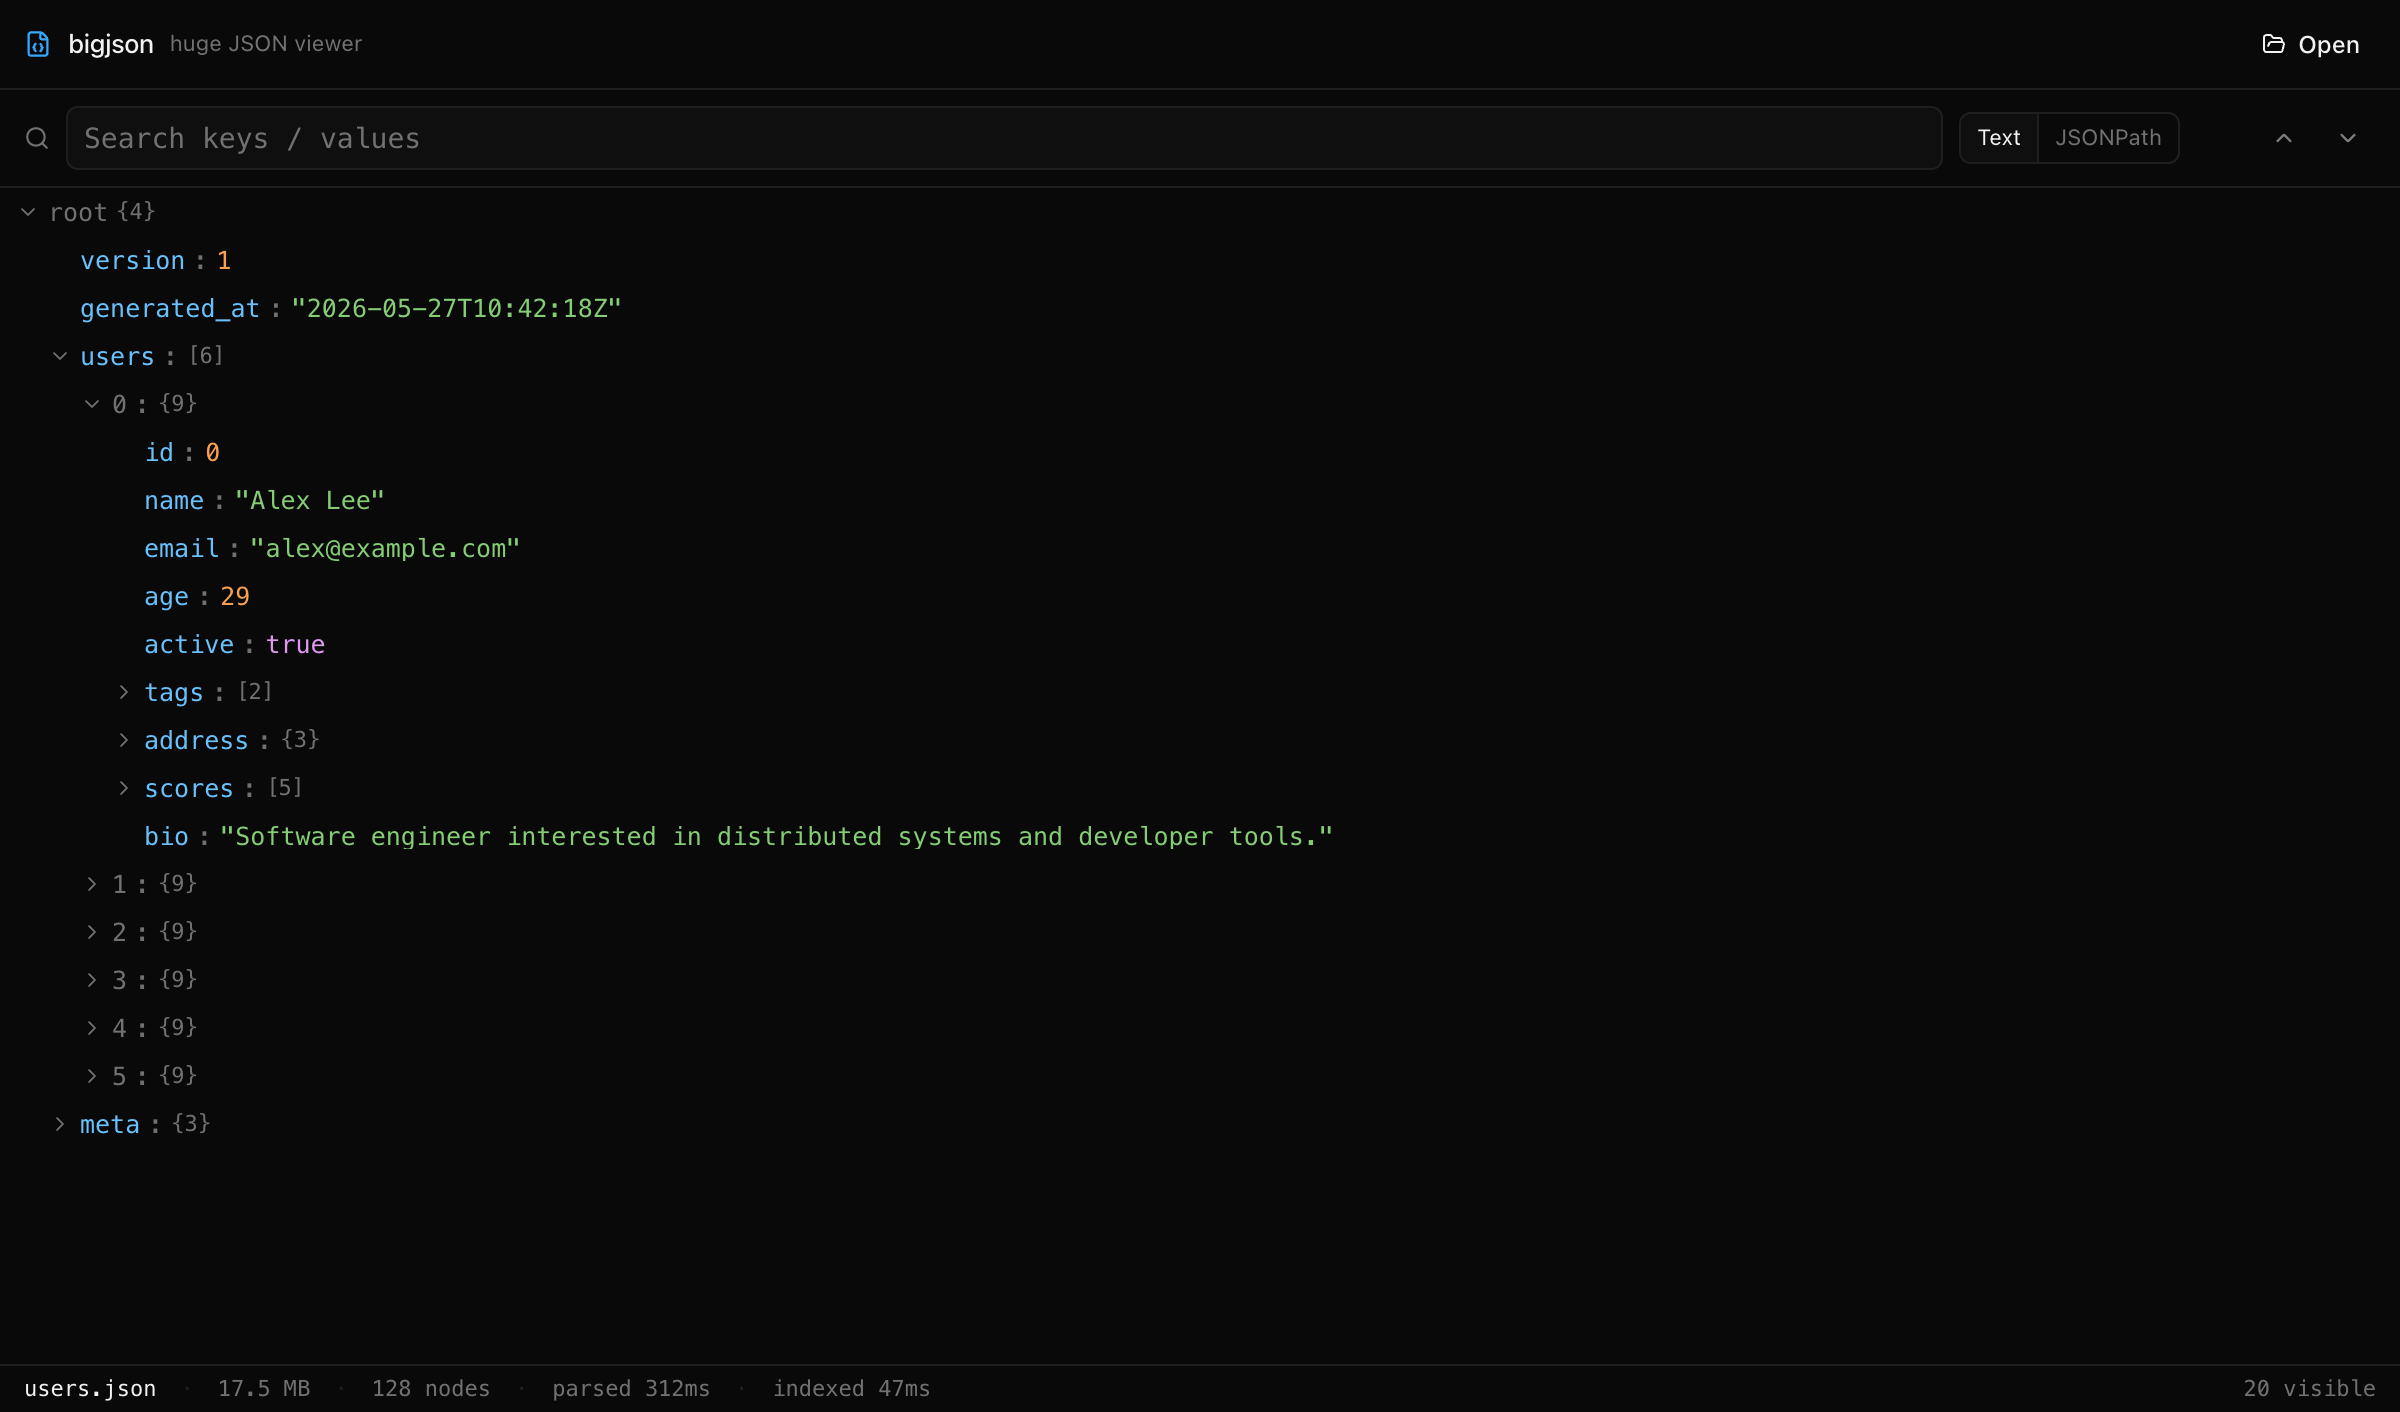
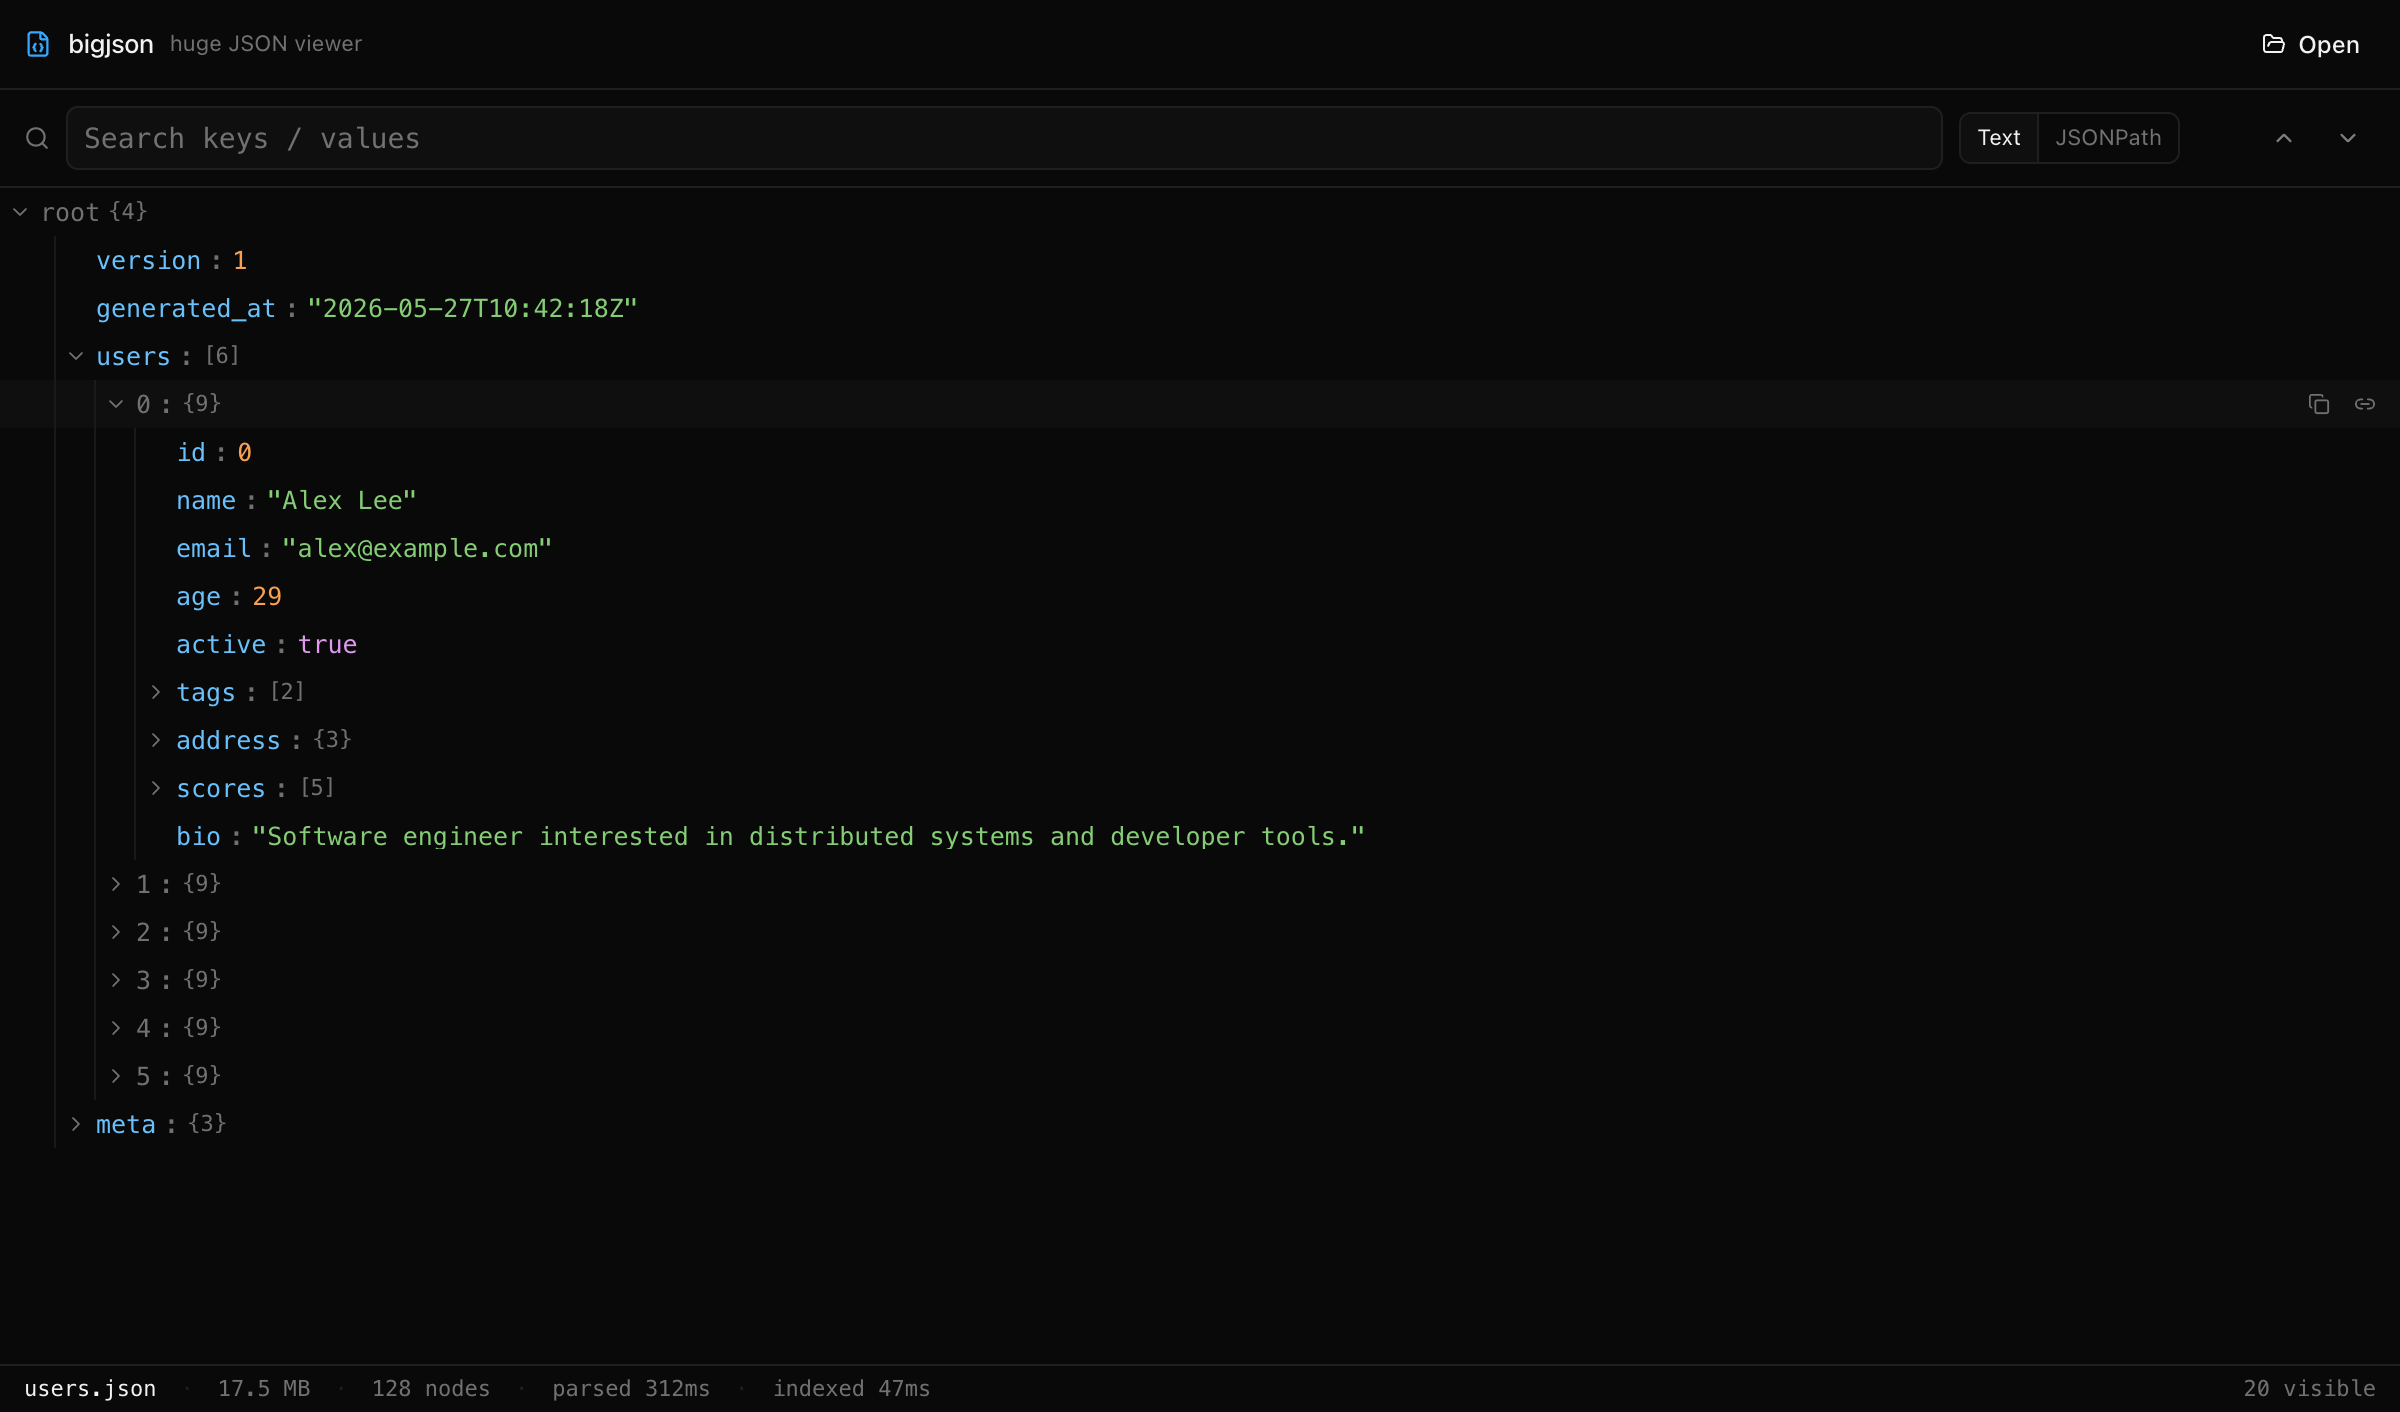
fixed known issues, tree selection, search result visibility, and added screenshots to docs

diff --git a/src/components/tree-row.tsx b/src/components/tree-row.tsx
@@ -3,6 +3,7 @@ import { NodeView } from "@/lib/tauri";
 import { cn } from "@/lib/utils";
 
 const ROW_HEIGHT = 24;
+const INDENT_PX = 20;
 
 type Props = {
   node: NodeView;
@@ -24,30 +25,40 @@ export function TreeRow({
   onCopyPath,
 }: Props) {
   const isContainer = node.kind === "object" || node.kind === "array";
-  const indent = depth * 16;
 
   return (
     <div
       className={cn(
-        "group flex items-center gap-1 px-2 font-mono text-[12.5px] leading-none select-none",
+        "group flex items-center font-mono text-[12.5px] leading-none select-none pr-2 relative",
         highlighted && "bg-[color-mix(in_oklch,var(--color-accent)_25%,transparent)]",
         !highlighted && "hover:bg-[var(--color-panel)]"
       )}
-      style={{ height: ROW_HEIGHT, paddingLeft: 8 + indent }}
+      style={{ height: ROW_HEIGHT }}
       onClick={isContainer ? onToggle : undefined}
     >
-      <span className="w-3 shrink-0 text-[var(--color-muted)]">
+      {/* indent guides — full-height vertical lines, one per depth level */}
+      {Array.from({ length: depth }, (_, i) => (
+        <span
+          key={i}
+          className="shrink-0 self-stretch border-r border-[var(--color-border)]/70"
+          style={{ width: INDENT_PX, marginLeft: i === 0 ? 8 : 0 }}
+          aria-hidden
+        />
+      ))}
+      <span className="ml-1 flex w-3 shrink-0 items-center justify-center text-[var(--color-muted)]">
         {isContainer ? (
           expanded ? <ChevronDown size={12} /> : <ChevronRight size={12} />
         ) : null}
       </span>
-      <KeyLabel node={node} />
-      <ValueLabel node={node} />
-      {isContainer && (
-        <span className="text-[var(--color-muted)] text-[11px]">
-          {node.kind === "array" ? `[${node.child_count}]` : `{${node.child_count}}`}
-        </span>
-      )}
+      <div className="flex items-center gap-1 min-w-0 ml-1">
+        <KeyLabel node={node} />
+        <ValueLabel node={node} />
+        {isContainer && (
+          <span className="text-[var(--color-muted)] text-[11px]">
+            {node.kind === "array" ? `[${node.child_count}]` : `{${node.child_count}}`}
+          </span>
+        )}
+      </div>
       <div className="ml-auto opacity-0 group-hover:opacity-100 flex items-center gap-1">
         <button
           className="p-1 text-[var(--color-muted)] hover:text-[var(--color-fg)]"

diff --git a/src/hooks/use-tree.ts b/src/hooks/use-tree.ts
@@ -85,17 +85,29 @@ export function useTree(rootId: number | null) {
     [rebuild]
   );
 
-  // Expand all ancestors of `id` and ensure it's visible (used when search jumps).
+  // Expand all ancestors of `id` and load enough children of each ancestor that
+  // the path down to `id` is materialised in our cache. Without this, a search
+  // hit at array index 7000 inside `users[]` would never appear in `rows`
+  // because we only paginate the first PAGE_SIZE children by default.
   const reveal = useCallback(
     async (id: number) => {
       const ancestors = await ipc.getAncestors(id);
-      for (const a of ancestors) {
-        if (!expandedRef.current.get(a)) {
-          expandedRef.current.set(a, true);
-          if (!cacheRef.current.has(a)) {
-            const kids = await ipc.getChildren(a, 0, PAGE_SIZE);
-            cacheRef.current.set(a, kids);
-          }
+      const chain = [...ancestors, id]; // walk root → target
+      for (let i = 0; i < chain.length - 1; i++) {
+        const parent = chain[i];
+        const childOnPath = chain[i + 1];
+        expandedRef.current.set(parent, true);
+        if (!cacheRef.current.has(parent)) {
+          const kids = await ipc.getChildren(parent, 0, PAGE_SIZE);
+          cacheRef.current.set(parent, kids);
+        }
+        // ensure `childOnPath` is inside the loaded slice; load more pages until it is
+        const targetPos = await ipc.getPosition(childOnPath);
+        while ((cacheRef.current.get(parent)?.length ?? 0) <= targetPos) {
+          const have = cacheRef.current.get(parent)?.length ?? 0;
+          const more = await ipc.getChildren(parent, have, PAGE_SIZE);
+          if (more.length === 0) break;
+          cacheRef.current.set(parent, [...(cacheRef.current.get(parent) ?? []), ...more]);
         }
       }
       await rebuild();

diff --git a/src/lib/tauri.ts b/src/lib/tauri.ts
@@ -34,6 +34,7 @@ export const ipc = {
   getChildren: (id: number, offset: number, limit: number) =>
     invoke<NodeView[]>("get_children", { id, offset, limit }),
   getAncestors: (id: number) => invoke<number[]>("get_ancestors", { id }),
+  getPosition: (id: number) => invoke<number>("get_position", { id }),
   getValue: (id: number) => invoke<string>("get_value", { id }),
   getPath: (id: number) => invoke<string>("get_path", { id }),
   search: (query: string, mode: SearchMode) =>

diff --git a/src-tauri/src/index.rs b/src-tauri/src/index.rs
@@ -84,6 +84,23 @@ impl Index {
         out
     }
 
+    /// Index of `id` within its parent's child list. Returns 0 for root.
+    pub fn position_in_parent(&self, id: u32) -> u32 {
+        let node = match self.get(id) {
+            Some(n) => n,
+            None => return 0,
+        };
+        let parent = match node.parent {
+            Some(p) => p,
+            None => return 0,
+        };
+        self.children(parent)
+            .iter()
+            .position(|c| *c == id)
+            .map(|p| p as u32)
+            .unwrap_or(0)
+    }
+
     /// Build a JSONPath-style string for a node, e.g. `$.users[0].email`.
     pub fn path_of(&self, id: u32) -> String {
         let mut chain: Vec<&Node> = Vec::new();
@@ -134,10 +151,11 @@ fn estimate_node_count(v: &Value) -> usize {
     }
 }
 
-/// Recursive walk that fills `nodes` and `child_ids`. Returns the id of the node
-/// inserted for `value`. We push the parent node first (with an empty children
-/// range), recurse for its children, then patch the children range — this gives
-/// children contiguous ids in `child_ids`.
+/// Recursive walk that fills `nodes` and `child_ids`. Returns the id of the
+/// node inserted for `value`. We collect direct children into a local Vec
+/// first, then append them to the shared arena as a contiguous block — without
+/// this, deeper recursions would push grandchildren onto `child_ids` before
+/// this node's own direct children, and `children` would span descendants too.
 fn walk(
     value: &Value,
     parent: Option<u32>,
@@ -165,8 +183,7 @@ fn walk(
         children: 0..0,
     });
 
-    // Recurse for containers and stitch the children range afterward.
-    let kids_start = child_ids.len() as u32;
+    let mut my_kids: Vec<u32> = Vec::with_capacity(child_count as usize);
     match value {
         Value::Object(m) => {
             for (k, v) in m.iter() {
@@ -177,7 +194,7 @@ fn walk(
                     nodes,
                     child_ids,
                 );
-                child_ids.push(cid);
+                my_kids.push(cid);
             }
         }
         Value::Array(a) => {
@@ -189,18 +206,15 @@ fn walk(
                     nodes,
                     child_ids,
                 );
-                child_ids.push(cid);
+                my_kids.push(cid);
             }
         }
         _ => {}
     }
-    let kids_end = child_ids.len() as u32;
 
-    // Note: children inside the range were pushed in insertion order, but
-    // because of recursion the slice covers only direct children of `id`.
-    // Each direct child's id was pushed onto `child_ids` after its own subtree
-    // finished walking — so the slice [kids_start..kids_end] holds exactly
-    // this node's direct children in document order.
+    let kids_start = child_ids.len() as u32;
+    child_ids.extend(&my_kids);
+    let kids_end = child_ids.len() as u32;
     nodes[id as usize].children = kids_start..kids_end;
 
     id
@@ -218,4 +232,55 @@ fn truncate(s: &str, max: usize) -> String {
     out.push_str(&s[..end]);
     out.push('…');
     out
+}
+
+#[cfg(test)]
+mod tests {
+    use super::*;
+    use serde_json::json;
+
+    #[test]
+    fn children_only_returns_direct_kids() {
+        // Mirrors the user's interlinks.json shape: array of objects, each with
+        // a nested dlp_links array of objects.
+        let v = json!([
+            {
+                "id": "a",
+                "title": "T",
+                "dlp_links": [
+                    { "db_id": 1, "score": 0.9 },
+                    { "db_id": 2, "score": 0.8 }
+                ]
+            },
+            { "id": "b", "title": "U", "dlp_links": [] }
+        ]);
+        let idx = Index::build(&v);
+
+        // root → 2 direct children (the two outer objects)
+        let root_kids = idx.children(idx.root);
+        assert_eq!(root_kids.len(), 2, "root should have 2 children, got {:?}", root_kids);
+
+        // root[0] → 3 direct children: id, title, dlp_links
+        let obj0 = root_kids[0];
+        let obj0_kids = idx.children(obj0);
+        assert_eq!(obj0_kids.len(), 3, "root[0] should have 3 keys");
+        let keys0: Vec<&str> = obj0_kids
+            .iter()
+            .map(|c| match &idx.get(*c).unwrap().key {
+                NodeKey::ObjectKey { key } => key.as_str(),
+                _ => "?",
+            })
+            .collect();
+        assert_eq!(keys0, vec!["id", "title", "dlp_links"]);
+
+        // dlp_links → 2 direct children
+        let dlp = *obj0_kids.last().unwrap();
+        let dlp_kids = idx.children(dlp);
+        assert_eq!(dlp_kids.len(), 2, "dlp_links should have 2 items");
+
+        // dlp_links[0] → 2 direct children: db_id, score
+        let dlp0 = dlp_kids[0];
+        let dlp0_kids = idx.children(dlp0);
+        assert_eq!(dlp0_kids.len(), 2);
+    }
 }

diff --git a/src-tauri/src/commands.rs b/src-tauri/src/commands.rs
@@ -117,6 +117,13 @@ pub fn get_ancestors(id: u32, state: State<'_, AppState>) -> Result<Vec<u32>, Ap
 }
 
 #[tauri::command]
+pub fn get_position(id: u32, state: State<'_, AppState>) -> Result<u32, AppError> {
+    let guard = state.current.read();
+    let loaded = guard.as_ref().ok_or(AppError::NoFile)?;
+    Ok(loaded.index.position_in_parent(id))
+}
+
+#[tauri::command]
 pub fn get_value(id: u32, state: State<'_, AppState>) -> Result<String, AppError> {
     let guard = state.current.read();
     let loaded = guard.as_ref().ok_or(AppError::NoFile)?;

diff --git a/src-tauri/src/lib.rs b/src-tauri/src/lib.rs
@@ -19,6 +19,7 @@ pub fn run() {
             commands::get_node,
             commands::get_children,
             commands::get_ancestors,
+            commands::get_position,
             commands::get_value,
             commands::get_path,
             commands::search,
